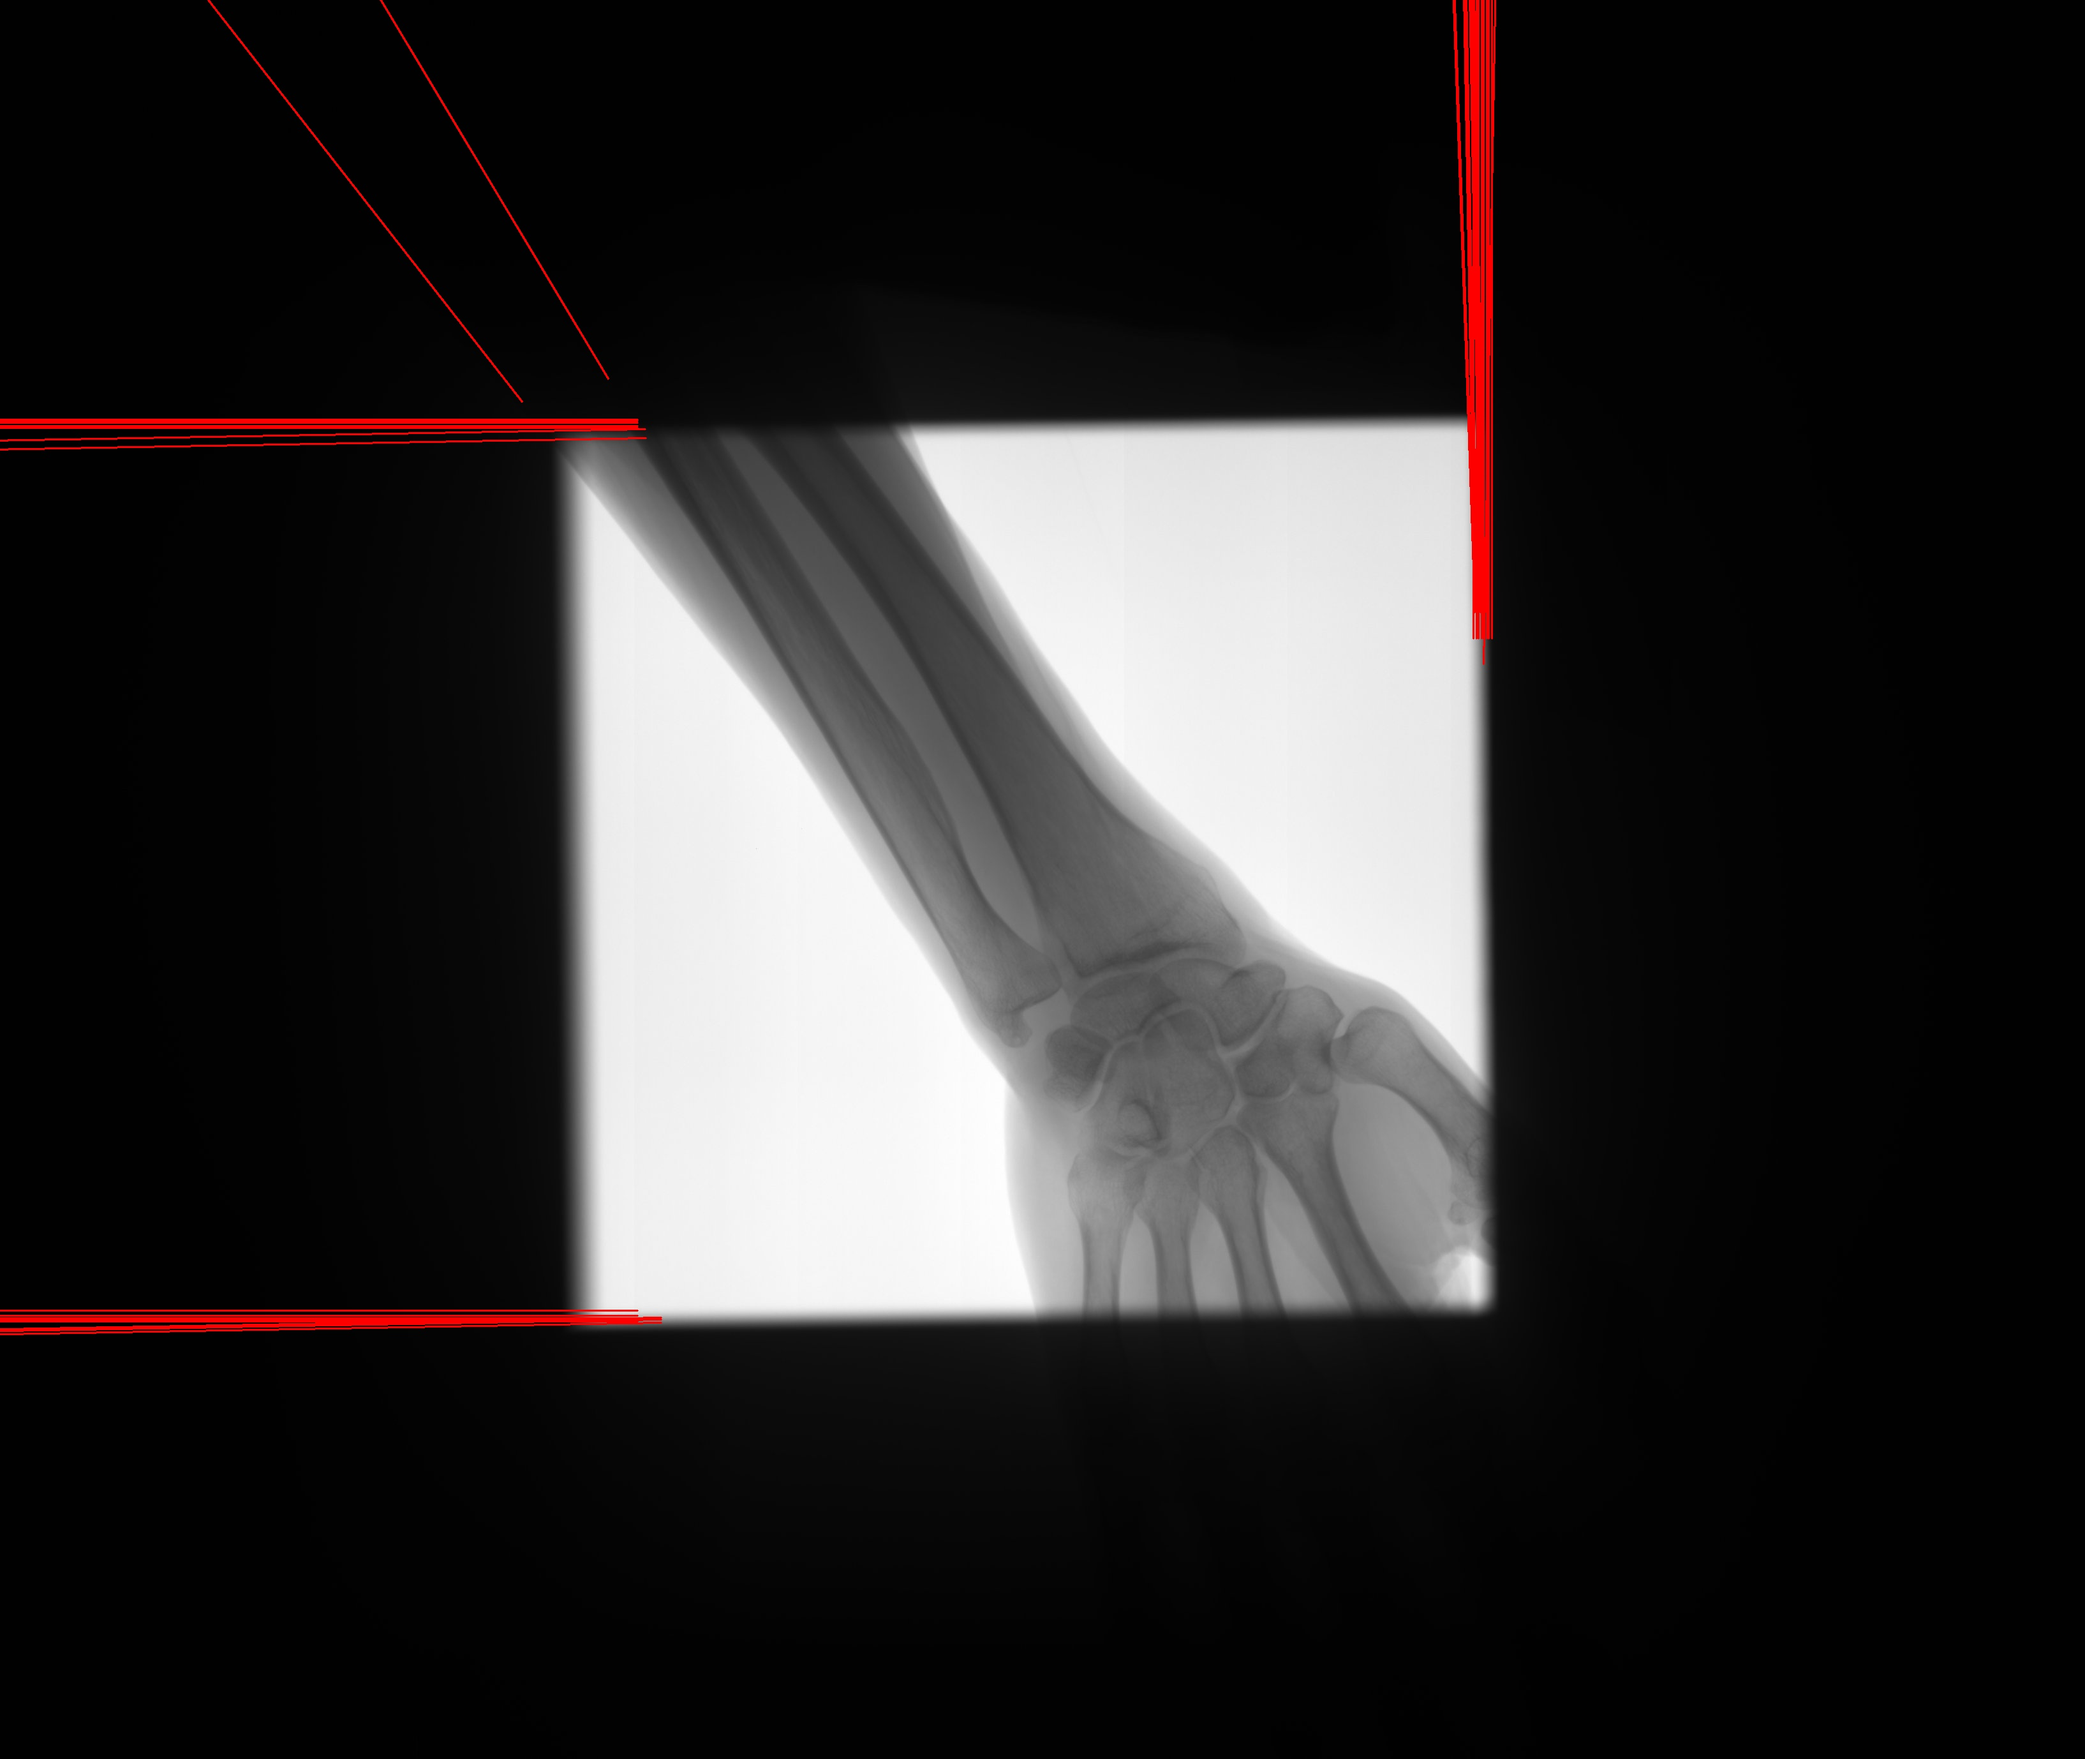
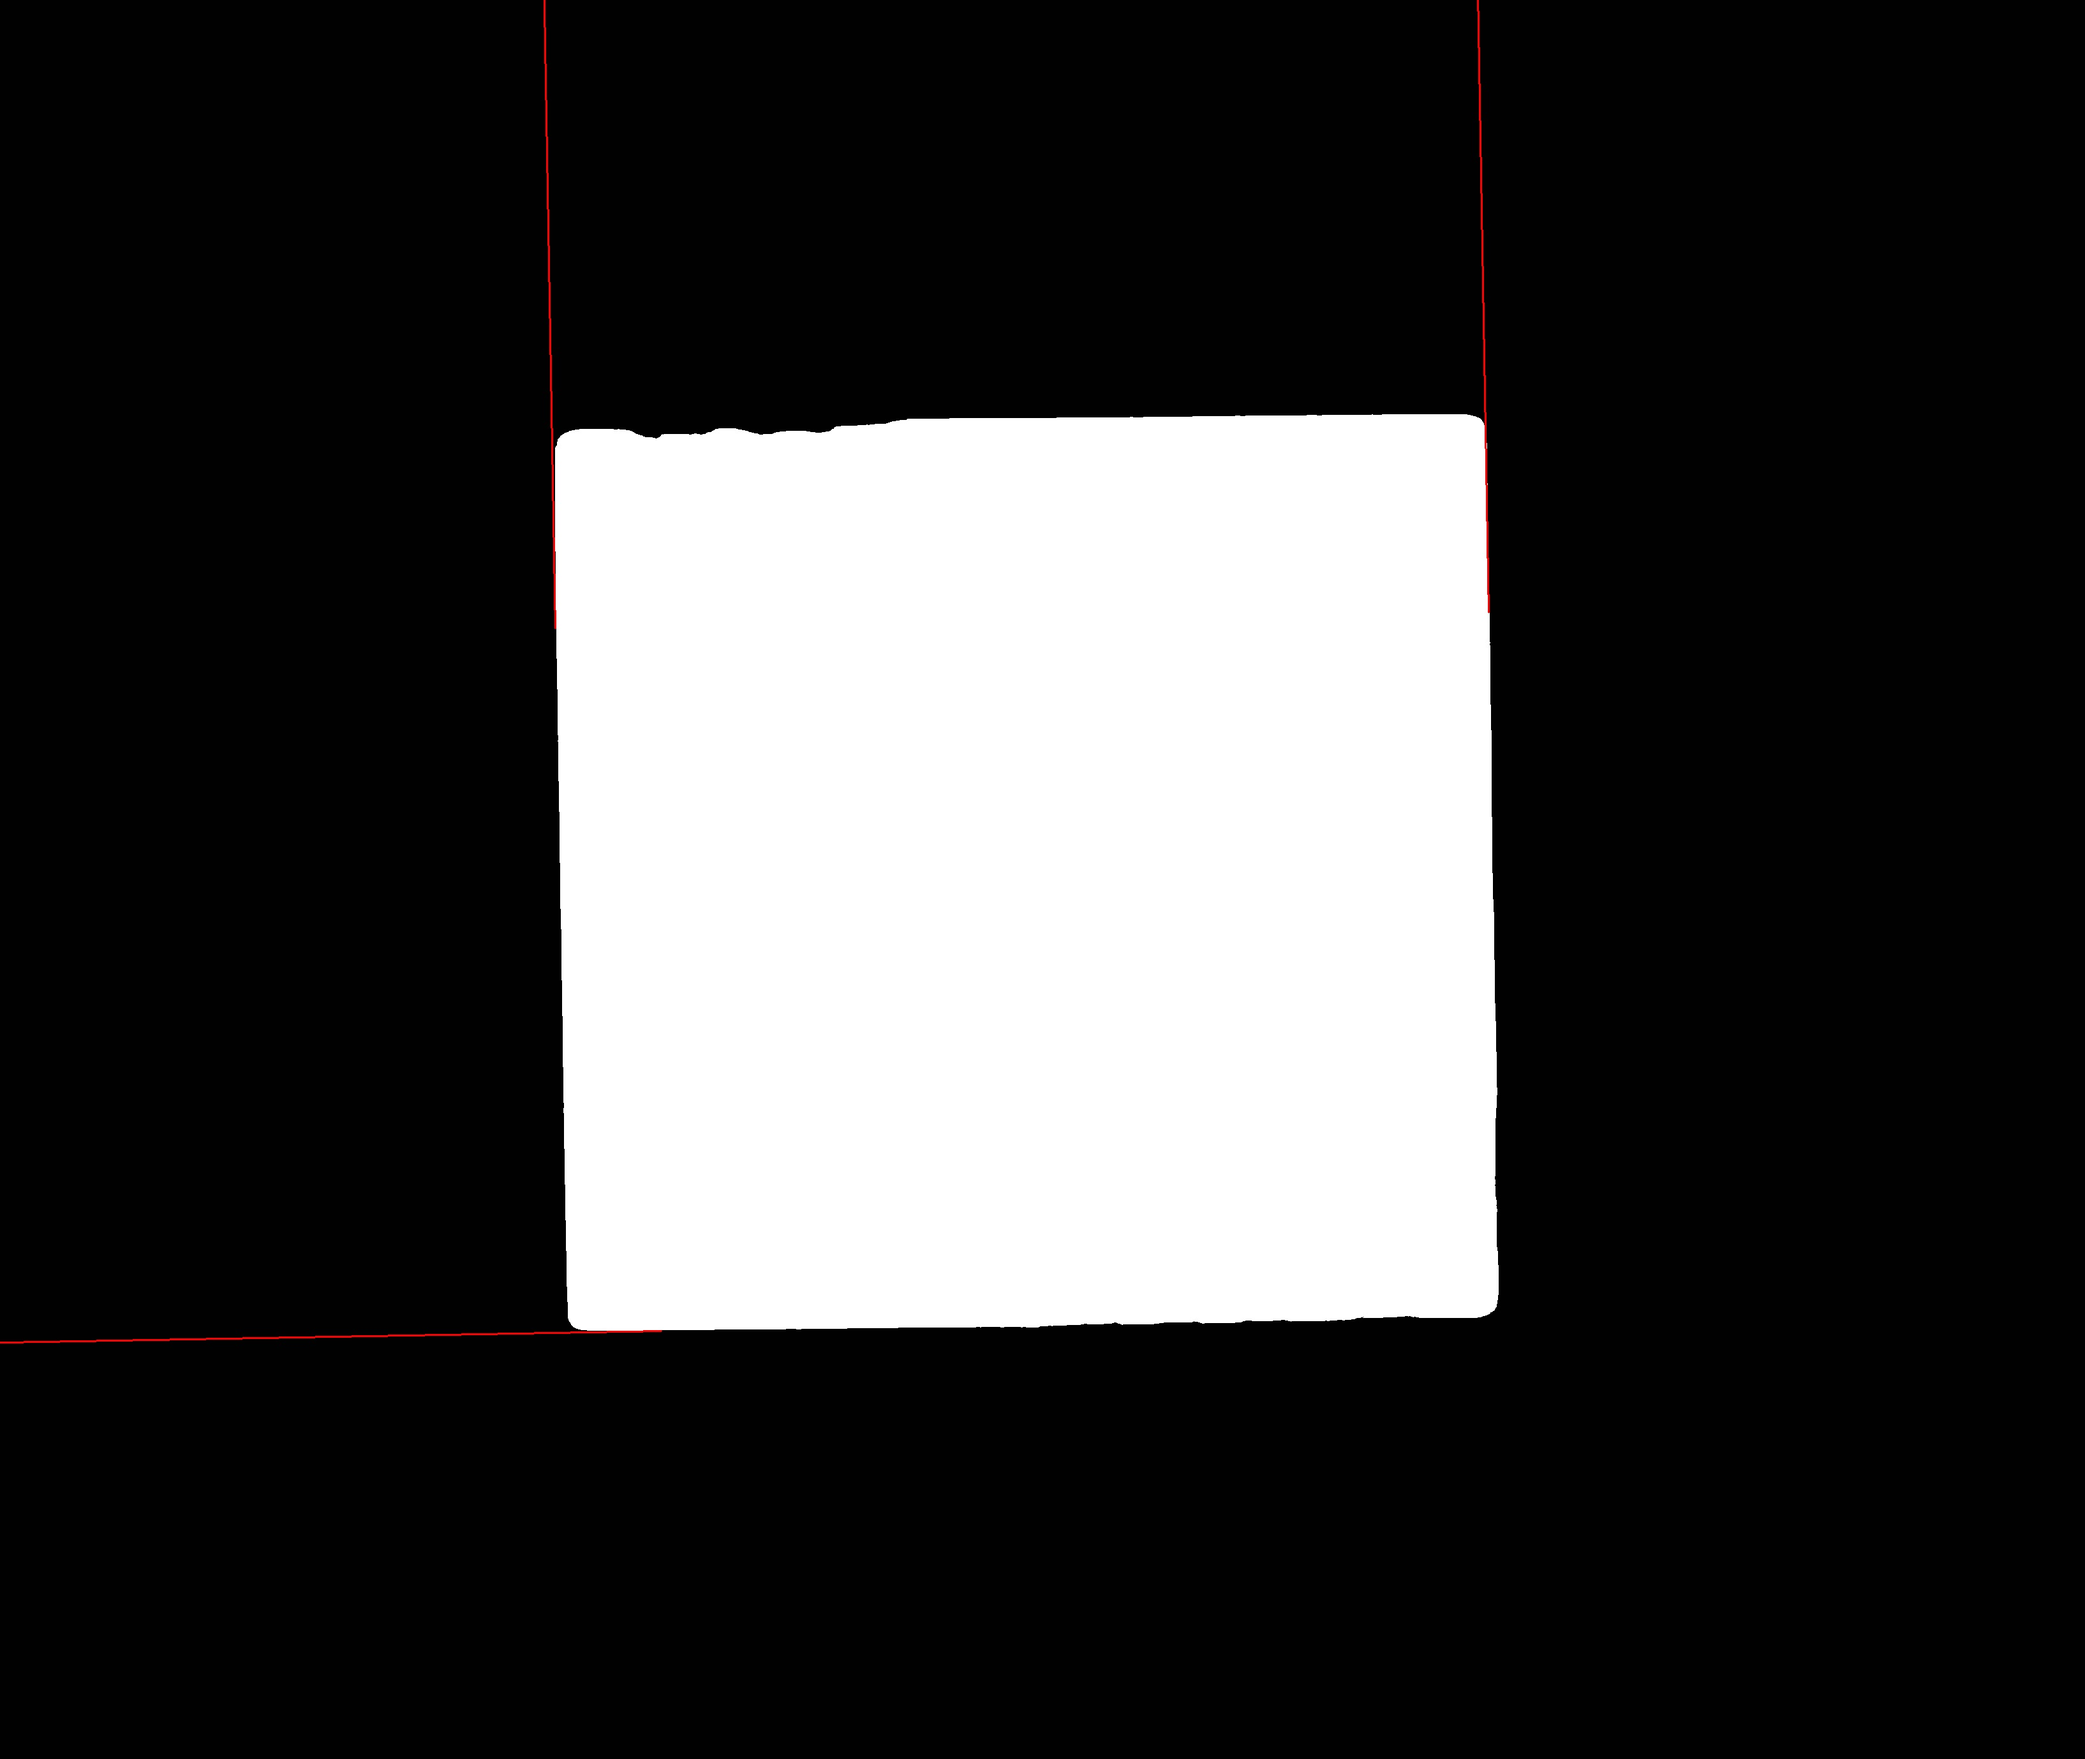
make greyscale more apparent

Changed region(s): [[0.0, 0.0, 0.7179, 0.7801], [0.2497, 0.156, 0.2809, 0.1872]]

diff --git a/wristalteredmakeedges.py b/wristalteredmakeedges.py
@@ -1,0 +1,66 @@
+import cv2
+import numpy as np
+
+im = cv2.imread('wristaltered.jpg')
+edges = cv2.Canny(im,0,50,apertureSize = 3)
+cv2.imwrite('wristedge.jpg',edges)
+
+
+lines = cv2.HoughLines(edges, 1, np.pi/180,300)
+
+
+# Plot lines on image
+posi = []
+posf = []
+
+if 0==0:
+
+    for line in lines:
+        for rho,theta in line:
+            a = np.cos(theta)
+            b = np.sin(theta)
+            x0 = a*rho
+            y0 = b*rho
+            x1 = int(x0 + 1000*(-b))
+            y1 = int(y0 + 1000*(a))
+            posi.append((x1,y1))
+            x2 = int(x0 - 1000*(-b))
+            y2 = int(y0 - 1000*(a))
+            posf.append((x2,y2))
+            cv2.line(im,(x1,y1),(x2,y2),(0,0,255),2)
+
+
+    def near(a, b, rtol=1e-5, atol=1e-8):
+        return abs(a - b) < (atol + rtol * abs(b))
+
+# True if two lines cross, false if not
+# should check that the three lines we found cross otherwise change threshold
+
+    def crosses(p1i, p1f, p2i, p2f):
+        (x1, y1) = p1i
+        (x2, y2) = p1f
+        (v1, u1) = p2i
+        (v2, u2) = p2f
+
+        (a,b), (c,d) = (x2-x1, u1-u2), (y2-y1, v1-v2)
+        e, f = u1-x1, v1-y1
+        denom = float(a*d - b*c)
+        if near(denom, 0):
+            # parallel
+            return False
+        else:
+            t = (e*d - b*f)/denom
+            s = (a*f - e*c)/denom
+            return 0<=t<=1 and 0<=s<=1
+
+
+    for i in range(len(posi)):
+        for j in range(i+1, len(posi)):
+            print(crosses(posi[i],posf[i],posi[j],posf[j]))
+
+
+    # Save image
+    cv2.imwrite('wristrec.jpg',im)
+
+else:
+    print ("length of lines is 0")

diff --git a/greyconverted.py b/greyconverted.py
@@ -32,11 +32,11 @@ for i in range(height):
         #greyscale picture so RGB values are all equal
         
         #altering darker pixels
-        if r < 50:
+        if r < 30:
             cp[i,j] = [1,1,1]
 
         #altering lighter pixels
-        if r > 220:
+        if r >= 30:
             cp[i,j] = [255,255,255]
 
 cv2.imwrite('wristaltered.jpg', im2)
